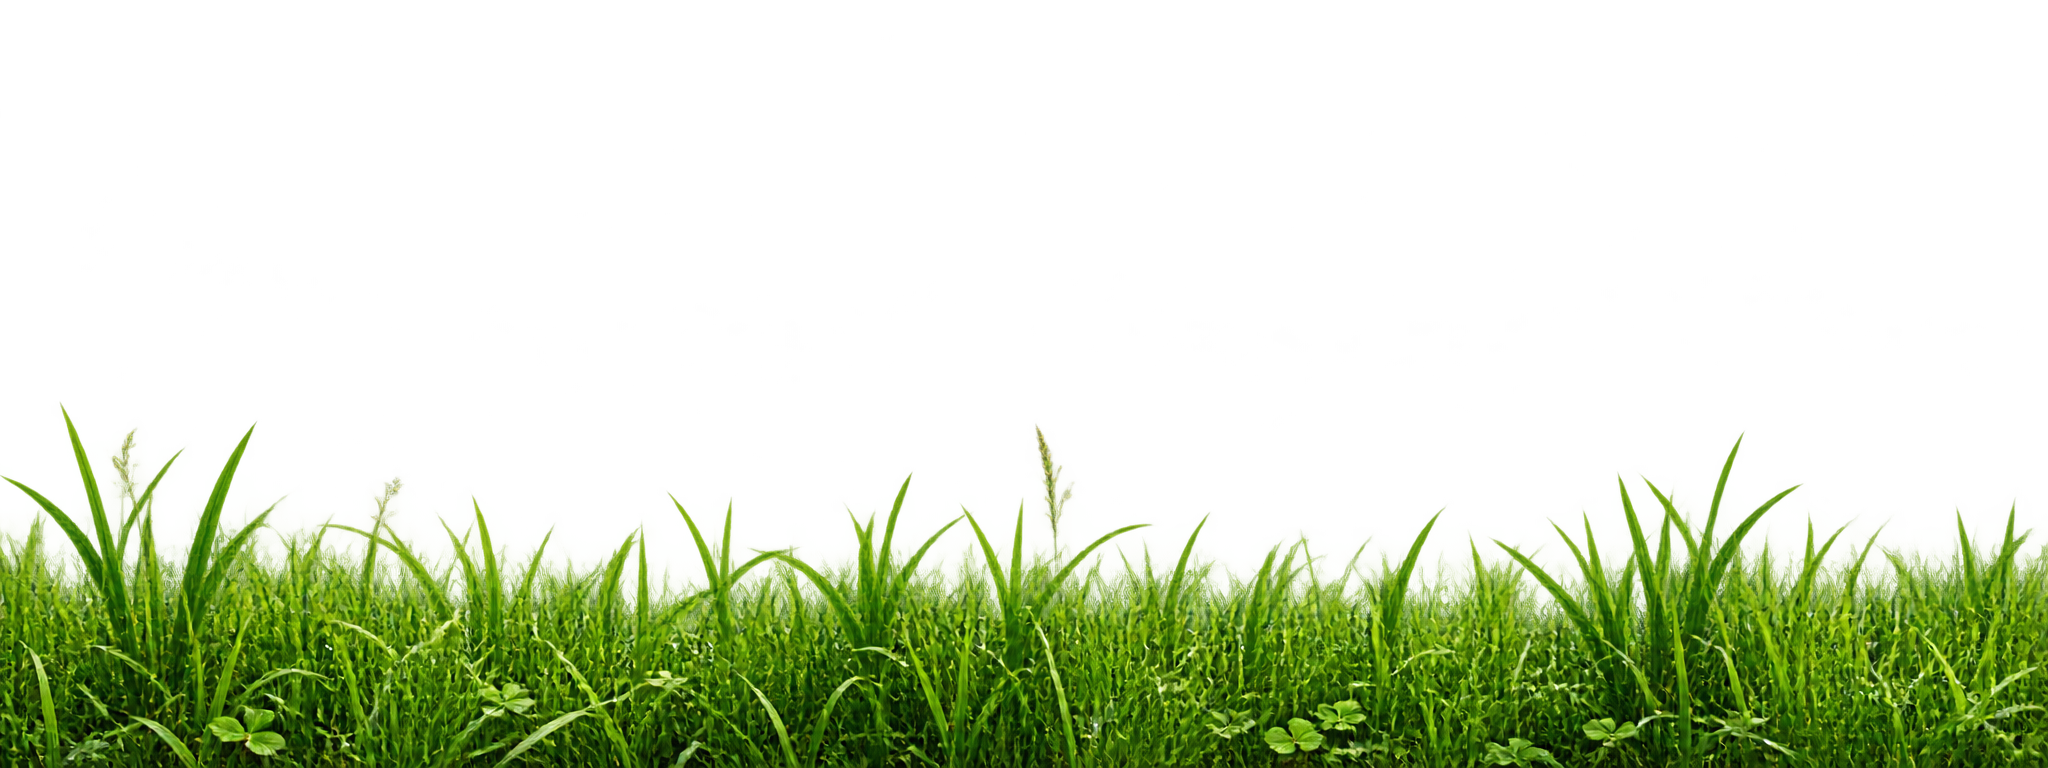
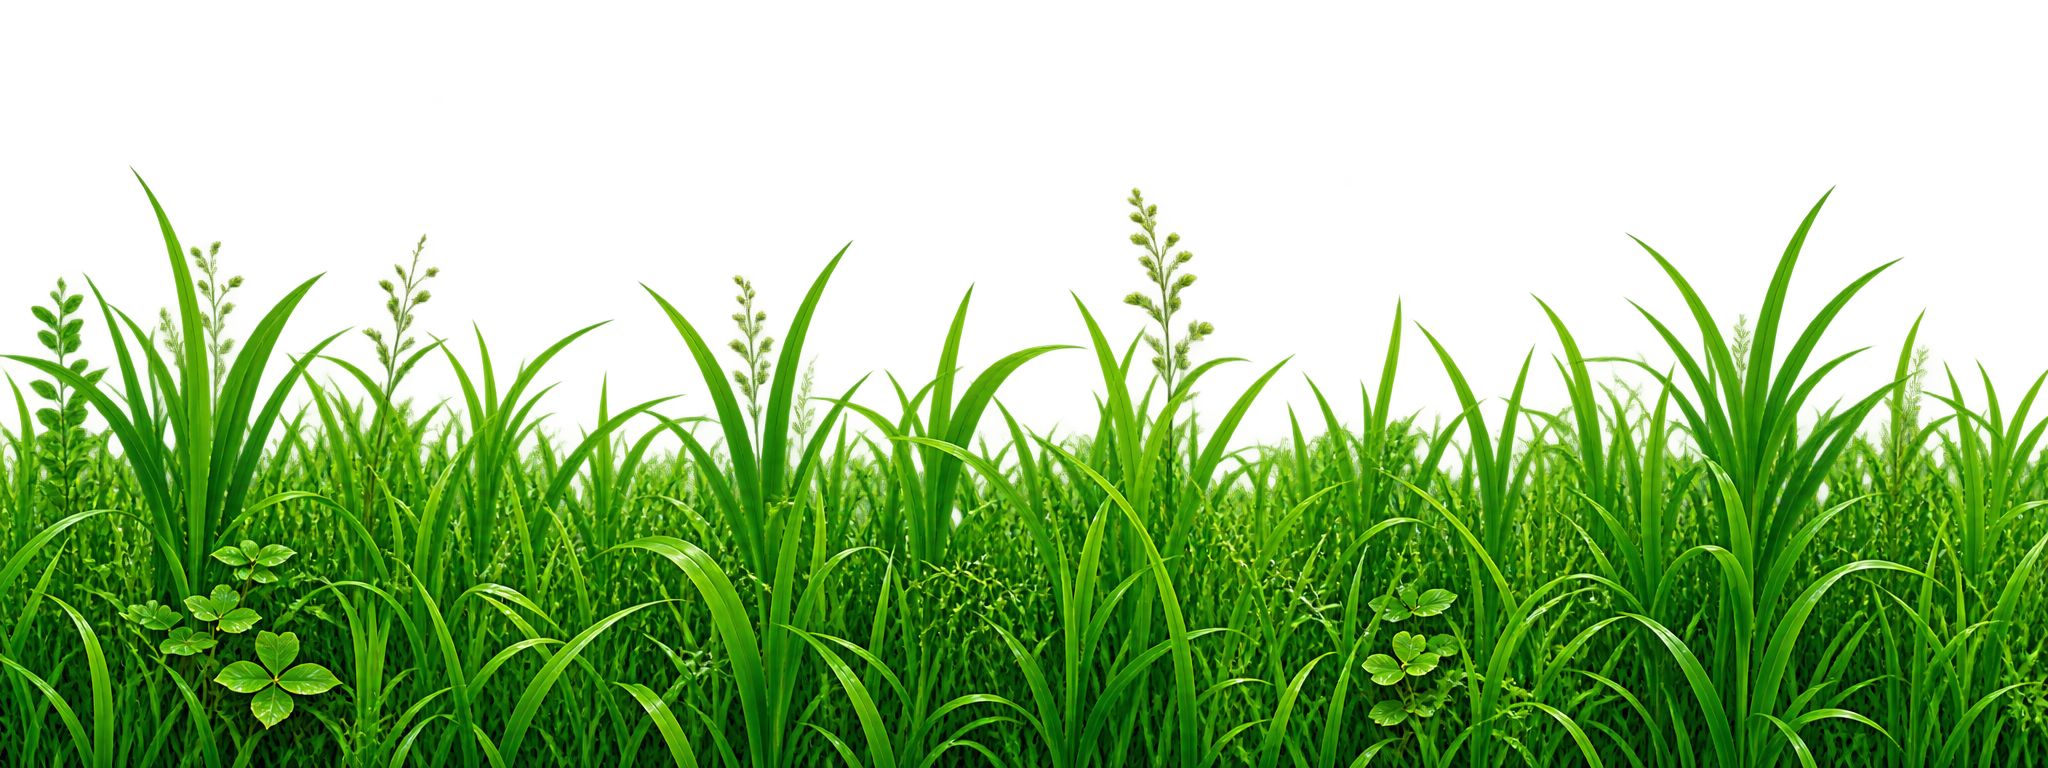
baggu

diff --git a/web/css/style.css b/web/css/style.css
@@ -359,7 +359,7 @@ ul, ol {
 .bottom-nav-grass {
     display: none;
     position: fixed;
-    bottom: calc(var(--nav-mobile-height, 58px) + env(safe-area-inset-bottom, 0px) + 12px);
+    bottom: calc(var(--nav-mobile-height, 58px) + env(safe-area-inset-bottom, 0px) - 62px);
     left: 0;
     right: 0;
     width: 100%;
@@ -371,9 +371,13 @@ ul, ol {
 
 .bottom-nav-grass-img {
     display: block;
-    width: 100%;
+    position: relative;
+    left: 50%;
+    width: 110%;
+    max-width: none;
     height: auto;
     object-fit: contain;
+    transform: translateX(-50%);
     pointer-events: none;
     user-select: none;
 }
@@ -3793,7 +3797,7 @@ ul, ol {
 
     .bottom-nav-grass {
         display: block;
-        bottom: calc(var(--nav-mobile-height, 58px) + env(safe-area-inset-bottom, 0px) + 12px);
+        bottom: calc(var(--nav-mobile-height, 58px) + env(safe-area-inset-bottom, 0px) - 62px);
     }
 
     .bottom-nav {

diff --git a/web/index.html b/web/index.html
@@ -16,7 +16,7 @@
         rel="stylesheet">
 
     <!-- Production Stylesheet -->
-    <link rel="stylesheet" href="css/style.css?v=phase27">
+    <link rel="stylesheet" href="css/style.css?v=phase30">
 
     <!-- PWA -->
     <link rel="manifest" href="manifest.json">
